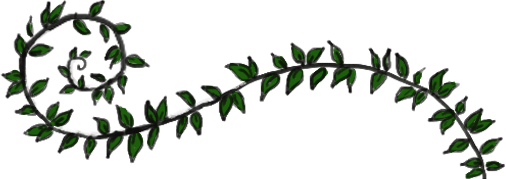
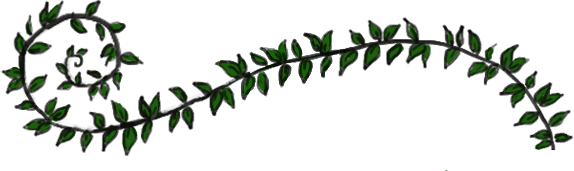
dep

diff --git a/frontend/src/components/footer.css b/frontend/src/components/footer.css
@@ -2,7 +2,11 @@
   display: flex;
   justify-content: flex-end;
   text-align: right;
-  background-color: rgb(34, 34, 34);
+  background-color: white;
+  color: rgb(32, 32, 32);
+  background-image: url("../img/leaftwirl.png");
+  background-repeat: no-repeat;
+  background-position: center;
   flex-direction: column;
   border-radius: 10px;
 }
